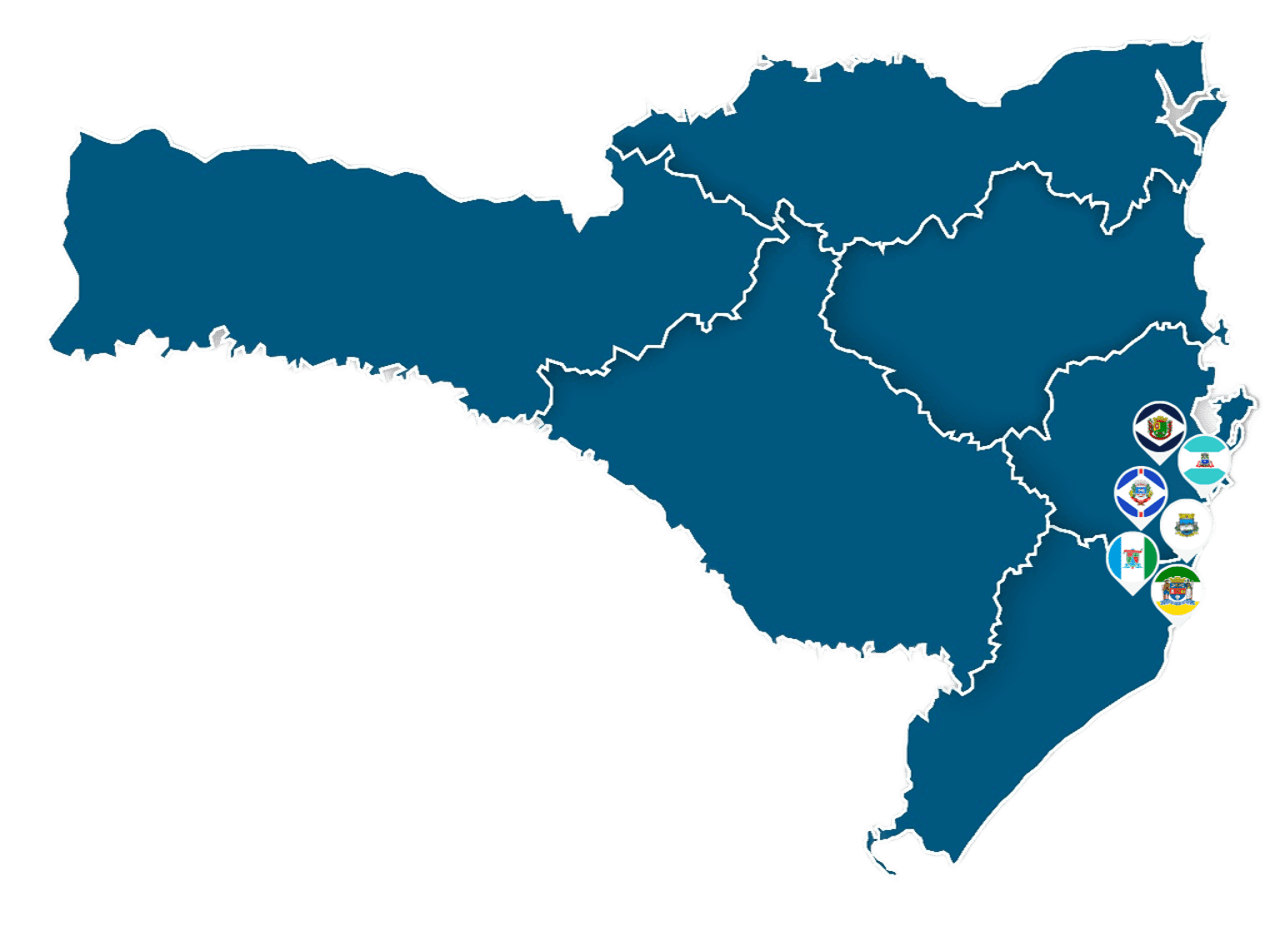
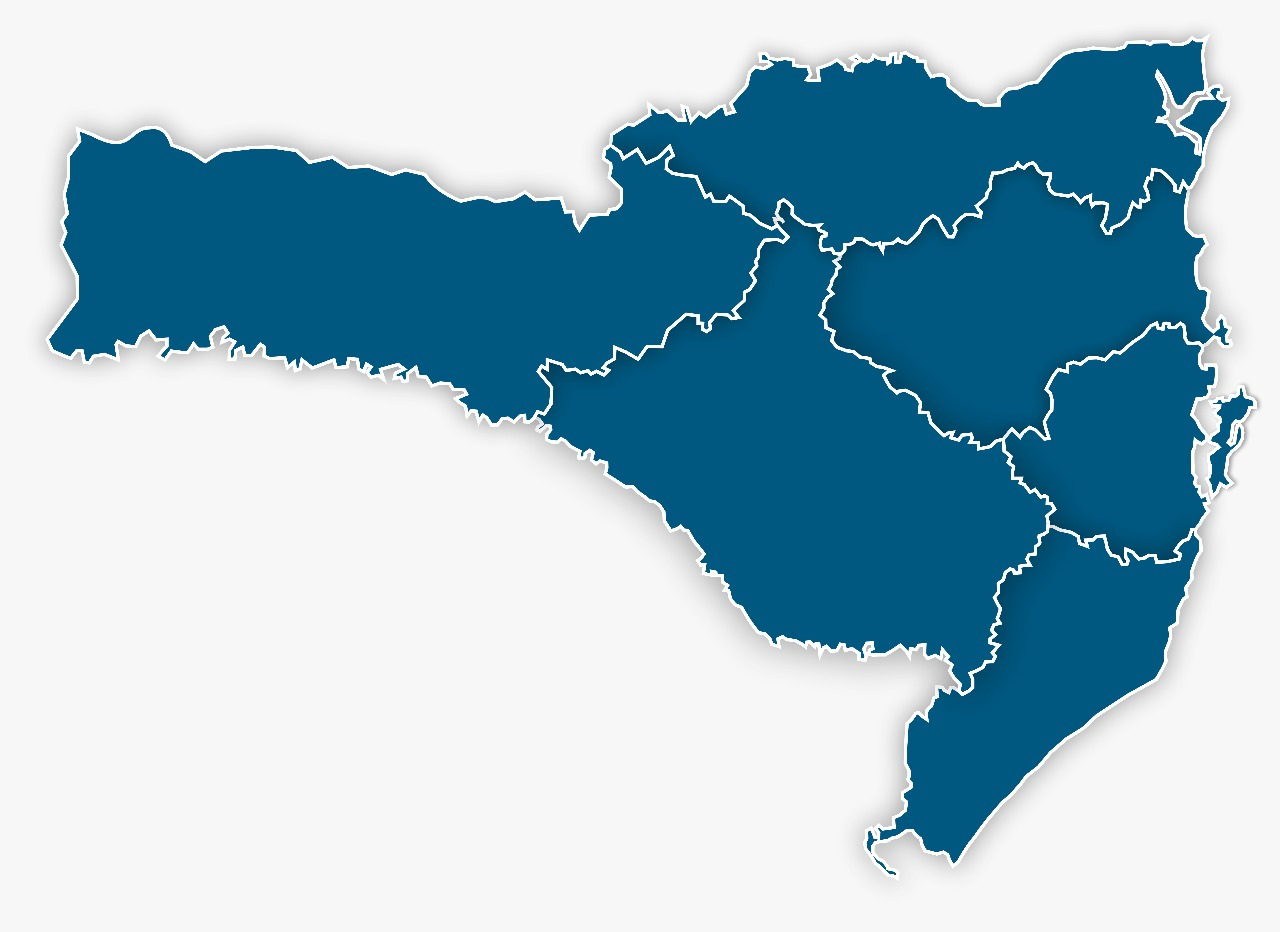
comit petrus

diff --git a/style.css b/style.css
@@ -290,11 +290,61 @@
     font-size: 1.5vw;
 }
 
+.o-projeto .imagems{
+    position: relative;
+}
+
 .o-projeto .imagems img {
     width:40vw;
     margin-top: 1vw;
     margin-right: 0;
     margin-left: 0;
+}
+
+.o-projeto .imagems .cidades-no-mapa img{
+    height: 4vw;
+    width: auto;
+    position: absolute;
+}
+
+.o-projeto .imagems .cidades-no-mapa img:hover{
+    z-index: 1500;
+    height: 4.3vw;
+    width: auto;
+}
+
+#laguna{
+    top: 17vw;
+    left: 34.7vw;
+    z-index: 1000;
+}
+
+#pescaria{
+    top: 17.2vw;
+    left: 33vw;
+    z-index: 999;
+}
+
+#imarui{
+    top: 15vw;
+    left: 32vw;
+    z-index: 998;
+}
+
+#imbituba{
+    top: 14.8vw;
+    left: 35vw;
+}
+
+#garopaba{
+    top: 13vw;
+    left: 35vw;
+}
+
+#paulo-lopes{
+    top: 13vw;
+    left: 32.3vw;
+    z-index: 997;
 }
 
 .o-projeto {